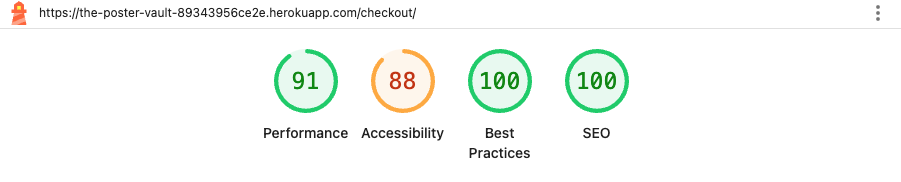
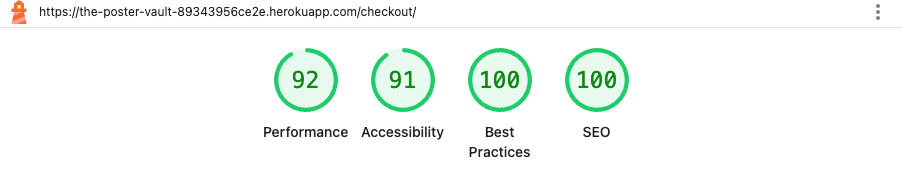
Add screenshots to readme

diff --git a/TESTING.md b/TESTING.md
@@ -69,7 +69,7 @@ I have used the recommended [PEP8 CI Python Linter](https://pep8ci.herokuapp.com
 | checkout | [views.py](https://github.com/ssannejohansson/MS4/blob/main/checkout/views.py) | [PEP8 CI Link](https://pep8ci.herokuapp.com/https://raw.githubusercontent.com/ssannejohansson/MS4/main/checkout/views.py) | ![screenshot](documentation/validation/py-checkout-views.png) |  |
 | checkout | [webhook_handler.py](https://github.com/ssannejohansson/MS4/blob/main/checkout/webhook_handler.py) | [PEP8 CI Link](https://pep8ci.herokuapp.com/https://raw.githubusercontent.com/ssannejohansson/MS4/main/checkout/webhook_handler.py) | ![screenshot](documentation/validation/py-checkout-webhook_handler.png) |  |
 | checkout | [webhooks.py](https://github.com/ssannejohansson/MS4/blob/main/checkout/webhooks.py) | [PEP8 CI Link](https://pep8ci.herokuapp.com/https://raw.githubusercontent.com/ssannejohansson/MS4/main/checkout/webhooks.py) | ![screenshot](documentation/validation/py-checkout-webhooks.png) | |
-| contact | [admin.py](https://github.com/ssannejohansson/MS4/blob/main/contact/admin.py) | [PEP8 CI Link](https://pep8ci.herokuapp.com/https://raw.githubusercontent.com/ssannejohansson/MS4/main/contact/admin.py) | | Empty file |
+| contact | [admin.py](https://github.com/ssannejohansson/MS4/blob/main/contact/admin.py) | [PEP8 CI Link](https://pep8ci.herokuapp.com/https://raw.githubusercontent.com/ssannejohansson/MS4/main/contact/admin.py) | ![screenshot](documentation/validation/py-contact-admin.png)  |
 | contact | [forms.py](https://github.com/ssannejohansson/MS4/blob/main/contact/forms.py) | [PEP8 CI Link](https://pep8ci.herokuapp.com/https://raw.githubusercontent.com/ssannejohansson/MS4/main/contact/forms.py) | ![screenshot](documentation/validation/py-contact-forms.png) |  |
 | contact | [models.py](https://github.com/ssannejohansson/MS4/blob/main/contact/models.py) | [PEP8 CI Link](https://pep8ci.herokuapp.com/https://raw.githubusercontent.com/ssannejohansson/MS4/main/contact/models.py) | ![screenshot](documentation/validation/py-contact-models.png) |  |
 | contact | [tests.py](https://github.com/ssannejohansson/MS4/blob/main/contact/tests.py) | [PEP8 CI Link](https://pep8ci.herokuapp.com/https://raw.githubusercontent.com/ssannejohansson/MS4/main/contact/tests.py) |  | Empty file |
@@ -139,8 +139,6 @@ I've tested my deployed project on multiple browsers to check for compatibility 
 
 ## Lighthouse Audit
 
-⚠ INSTRUCTIONS ⚠
-
 I've tested my deployed project using the Lighthouse Audit tool to check for any major issues. Some warnings are outside of my control, and mobile results tend to be lower than desktop.
 
 | Page | Mobile | Desktop |
@@ -158,6 +156,7 @@ I've tested my deployed project using the Lighthouse Audit tool to check for any
 | Edit Product | ![screenshot](documentation/lighthouse/mobile-edit-product.png) | ![screenshot](documentation/lighthouse/desktop-edit-product.png) |
 | Contact | ![screenshot](documentation/lighthouse/mobile-contact.png) | ![screenshot](documentation/lighthouse/desktop-contact.png) |
 | 404 | ![screenshot](documentation/lighthouse/mobile-404.png) | ![screenshot](documentation/lighthouse/desktop-404.png) |
+
 
 ## Defensive Programming
 
@@ -247,12 +246,6 @@ All previously closed/fixed bugs can be tracked [here](https://www.github.com/ss
 ![screenshot](documentation/gh-issues.png)
 
 ### Known Issues
-
-| Issue | Screenshot |
-| --- | --- |
-| The project is designed to be responsive from `375px` and upwards, in line with the material taught on the course LMS. Minor layout inconsistencies may occur on extra-wide (e.g. 4k/8k monitors), or smart-display devices (e.g. Nest Hub, Smart Watches, Gameboy Color, etc.), as these resolutions are outside the project’s scope, as taught by Code Institute. | ![screenshot](documentation/issues/poor-responsiveness.png) |
-| When validating HTML with a semantic `<section>` element, the validator warns about lacking a header `h2-h6`. This is acceptable. | ![screenshot](documentation/issues/section-header.png) |
-| Validation errors on "signup.html" coming from the Django Allauth package. | ![screenshot](documentation/issues/allauth.png) |
 
 > [!IMPORTANT]  
 > There are no remaining bugs that I am aware of, though, even after thorough testing, I cannot rule out the possibility.

diff --git a/README.md b/README.md
@@ -152,8 +152,8 @@ I've used [Balsamiq](https://balsamiq.com/wireframes) to design my site wirefram
 | Profile Management | Users can manage their profile information, including their default delivery address and order history. | ![screenshot](documentation/features/profile-management.png) |
 | Product Management | Superusers can add, edit, and delete products from the site via a CRUD interface. | ![screenshot](documentation/features/product-management.png) ![screenshot](documentation/features/product-management2.png) ![screenshot](documentation/features/product-management3.png) |
 | Contact | Users can submit a message via the contact form | ![screenshot](documentation/features/contact.png) |
-| User Feedback | Clear and concise Django messages are used to provide feedback to users when interacting with various features (e.g., adding products to the bag, checking out, etc.). | ![screenshot](documentation/features/user-feedback.png) |
-| 404 | The 404 error page will indicate when a user has navigated to a page that doesn't exist, replacing the default Heroku 404 page with one that ties into the site's look and feel. | ![screenshot](documentation/features/404.png) |
+| User Feedback | Clear and concise Django messages are used to provide feedback to users when interacting with various features | ![screenshot](documentation/features/toast-login.png) ![screenshot](documentation/features/toast-profile.png) ![screenshot](documentation/features/toast-add-to-bag.png) ![screenshot](documentation/features/toast-update-bag.png) ![screenshot](documentation/features/toast-remove-from-bag.png) ![screenshot](documentation/features/toast-order-confirmation.png) |
+| 404 | The 404 error page will indicate when a user has navigated to a page that doesn't exist, replacing the default Heroku 404 page with one that ties into the site's look and feel. | ![screenshot](documentation/browsers/chrome-404.png) |
 
 ### Future Features
 
